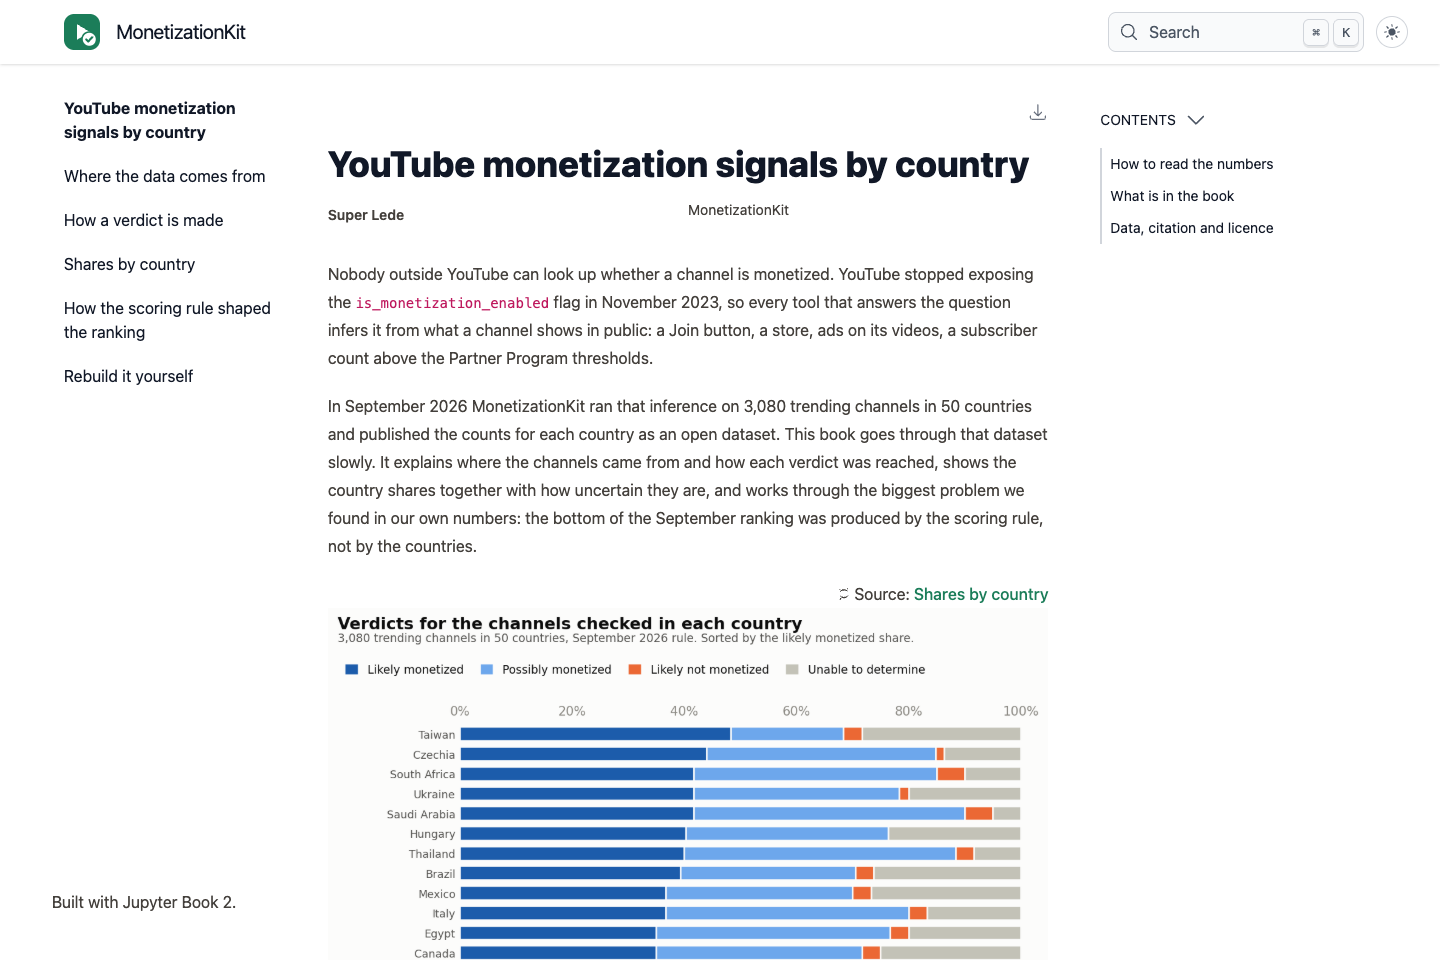
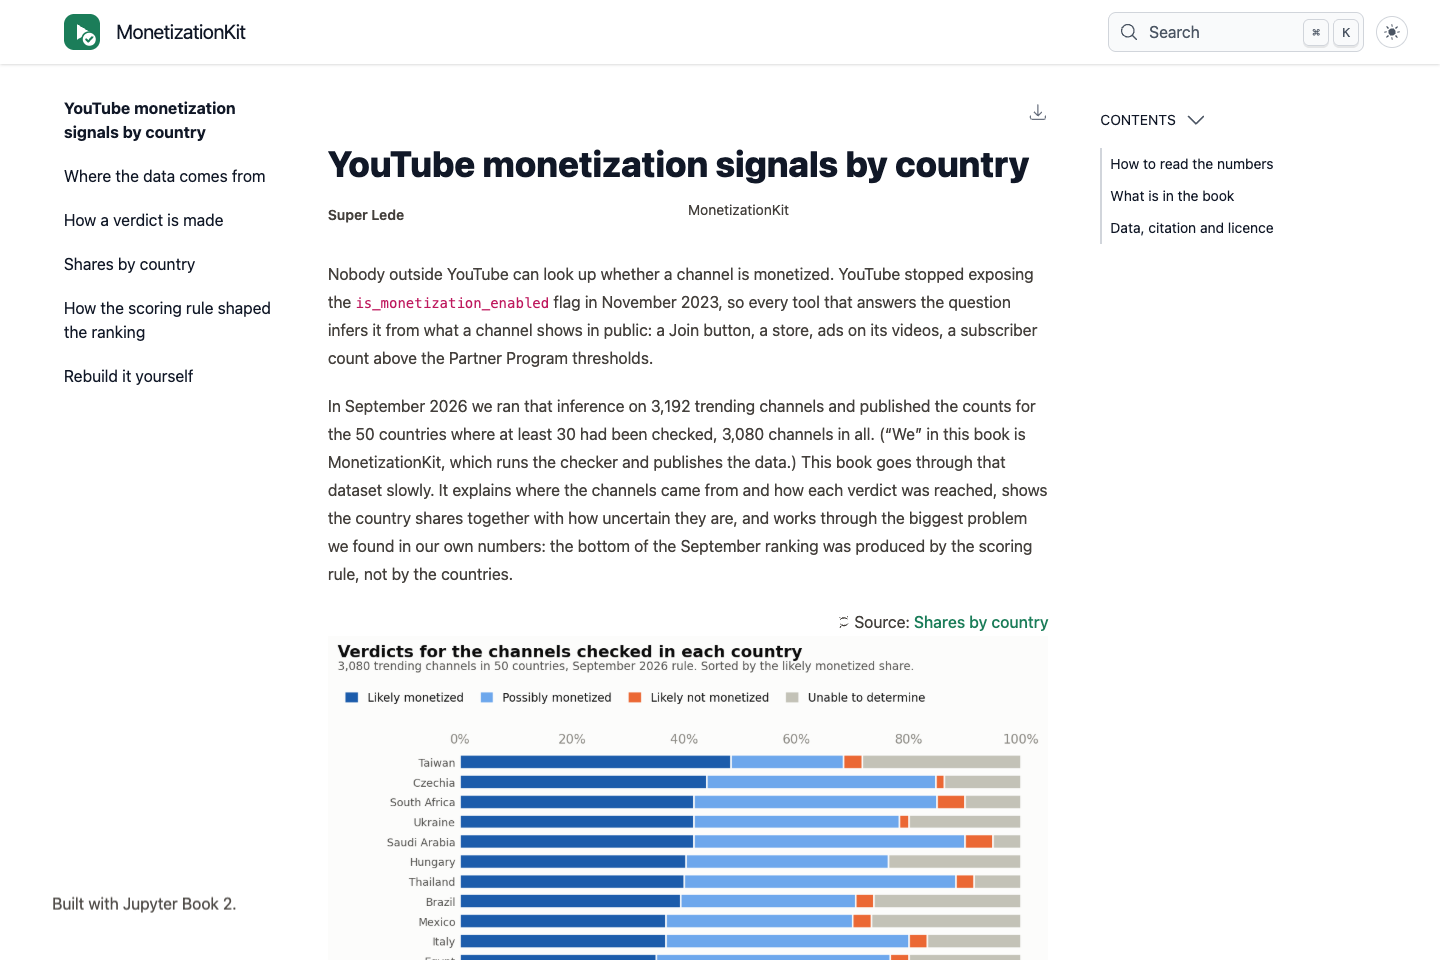
fix: address review findings in the book
Correct the claim about countries without memberships, use one voice,
clear the execution cache on publish, resolve the site path before cd,
and give pages a distinct title suffix.

Changed region(s): [[0.2188, 0.4062, 0.7188, 1.0], [0.0312, 0.9375, 0.1562, 0.9688]]

diff --git a/book/plotstyle.py b/book/plotstyle.py
@@ -5,8 +5,8 @@ checked for colour-vision deficiency (adjacent pairs) on the light surface below
 deliberately neutral because "unable to determine" is the absence of an answer.
 """
 
-import matplotlib
 import matplotlib.pyplot as plt
+from matplotlib.ticker import PercentFormatter
 
 SURFACE = "#fcfcfb"
 INK = "#0b0b0b"
@@ -32,7 +32,7 @@ VERDICT_LABELS = {
 MEMBERSHIPS = "#2a78d6"
 NO_MEMBERSHIPS = "#eb6834"
 
-PERCENT = matplotlib.ticker.PercentFormatter(1.0, decimals=0)
+PERCENT = PercentFormatter(1.0, decimals=0)
 
 plt.rcParams.update(
     {

diff --git a/book/method.md b/book/method.md
@@ -17,7 +17,7 @@ Every channel gets one of four verdicts: likely monetized, possibly monetized, l
 
 ## The September 2026 rule
 
-The September 2026 snapshot was scored with the rule MonetizationKit used in early September 2026. At that time the ad signal (S3) counted as present when at least two thirds of the sampled long videos had ads.
+The September 2026 snapshot was scored with the rule we used in early September 2026. At that time the ad signal (S3) counted as present when at least two thirds of the sampled long videos had ads.
 
 Likely monetized
 : 1,000+ subscribers, a Join button, and ads on recent long videos. All three.
@@ -46,26 +46,26 @@ Every stored check behind the live table was re-scored under the new rule, so th
 
 ## Limits
 
-### Trending channels, not typical ones
+### Trending channels are big channels
 
-The channels come from trending charts, and most of them have hundreds of thousands of subscribers. The `median_subscribers` column gives the figure for each country. A low share for a country does not mean creators there rarely get monetized. It means the large channels we checked showed fewer public signals.
+The channels come from trending charts. In 49 of the 50 countries the median channel we checked has more than 100,000 subscribers, and the `median_subscribers` column gives the figure for each country. So a low share for a country says the large channels we checked there showed fewer public signals. It says little about how often creators in that country get monetized.
 
-### A row is not a monetization rate
+### How to read a row
 
 Read a row as: of the channels we checked in this country, this many showed the signals. With about 60 channels per country, each share also carries a wide margin of error. [Shares by country](country-shares.ipynb) puts numbers on it.
 
 ### One in five could not be called
 
-A channel ends up as unable to determine when its pages could not be read, when YouTube blocked the ad sample, or when the signals pointed neither way. These channels are kept as their own group, not guessed into another one. They are not spread evenly across countries, which matters when two countries are compared.
+A channel ends up as unable to determine when its pages could not be read, when YouTube blocked the ad sample, or when the signals pointed neither way. These channels stay in their own group. They are not spread evenly across countries, which matters when two countries are compared.
 
 ### A bias in our own crawler
 
-The dataset README describes one bias found and fixed before publication. The crawler was being rate-limited, which inflated "unable to determine" for whichever countries happened to be crawled in a throttled hour. In an early crawl of about 900 channels on 5 September 2026, the United States read 37.1% unable. After the crawl was slowed and those channels rechecked, the figure in that early sample came down to 14.3%. In the full snapshot, the US row reads 16 unable out of 66. Failure rates are now watched over time, not only in aggregate.
+The dataset README describes one bias found and fixed before publication. The crawler was being rate-limited, which inflated "unable to determine" for whichever countries happened to be crawled in a throttled hour. In an early crawl of about 900 channels on 5 September 2026, the United States read 37.1% unable. After the crawl was slowed and those channels rechecked, the figure in that early sample came down to 14.3%. In the full snapshot the US row reads 16 unable out of 66, or 24.2%; we have not traced why it rose again as the sample grew. Failure rates are now tracked over time, so a throttled hour shows up as a spike.
 
 ### A signal can only appear where YouTube offers it
 
-Channel memberships, stores and the Partner Program itself are not available in every country. Russia, one of the 50 countries in the snapshot, was not on YouTube's list of countries where the Partner Program is open when MonetizationKit last checked that list on 1 October 2026. Where a feature does not exist, a missing signal is not evidence of anything. The last chapter shows how much this mattered for memberships.
+Channel memberships, stores and the Partner Program itself are not available in every country. Russia, one of the 50 countries in the snapshot, was not on YouTube's list of countries where the Partner Program is open when we last checked that list on 1 October 2026. Where a feature does not exist, a missing signal is not evidence of anything. The last chapter shows how much this mattered for memberships.
 
 ### Public pages only
 
-We see what a logged-out visitor sees: no earnings, no Studio data, nothing from the owner. A verdict is an inference from public signals, not a statement from YouTube.
+We see what a logged-out visitor sees: no earnings, no Studio data, nothing from the owner. YouTube has confirmed none of these verdicts.

diff --git a/book/index.md b/book/index.md
@@ -1,12 +1,12 @@
 ---
 title: YouTube monetization signals by country
 short_title: Introduction
-description: An open dataset of 3,080 trending YouTube channels in 50 countries, read closely. Where the channels came from, how each verdict is made, what the country shares look like with their uncertainty, and notebooks that recompute every number.
+description: An open dataset on 3,080 trending YouTube channels in 50 countries, read closely. Where the channels came from, how each verdict is made, what the country shares look like with their uncertainty, and notebooks that recompute every number.
 ---
 
 Nobody outside YouTube can look up whether a channel is monetized. YouTube stopped exposing the `is_monetization_enabled` flag in November 2023, so every tool that answers the question infers it from what a channel shows in public: a Join button, a store, ads on its videos, a subscriber count above the Partner Program thresholds.
 
-In September 2026 MonetizationKit ran that inference on 3,080 trending channels in 50 countries and published the counts for each country as an open dataset. This book goes through that dataset slowly. It explains where the channels came from and how each verdict was reached, shows the country shares together with how uncertain they are, and works through the biggest problem we found in our own numbers: the bottom of the September ranking was produced by the scoring rule, not by the countries.
+In September 2026 we ran that inference on 3,192 trending channels and published the counts for the 50 countries where at least 30 had been checked, 3,080 channels in all. ("We" in this book is MonetizationKit, which runs the checker and publishes the data.) This book goes through that dataset slowly. It explains where the channels came from and how each verdict was reached, shows the country shares together with how uncertain they are, and works through the biggest problem we found in our own numbers: the bottom of the September ranking was produced by the scoring rule, not by the countries.
 
 :::{figure} #fig-verdicts
 :label: fig-verdicts-intro
@@ -17,9 +17,9 @@ Verdicts for the channels checked in each country under the September 2026 rule,
 
 Three things to keep in mind before looking at any one country:
 
-- A row describes the channels we checked in that country, not every channel there. They are trending channels, and most have hundreds of thousands of subscribers.
+- A row describes the channels we checked in that country, not every channel there. They are trending channels: in all but one country, the median channel we checked has more than 100,000 subscribers.
 - "Likely monetized" is an inference from public signals. YouTube has not confirmed any of these verdicts.
-- One channel in five could not be called. Those channels stay in the table as "unable to determine" instead of being guessed into another group.
+- One channel in five could not be called. Those channels stay in the table as "unable to determine".
 
 ## What is in the book
 
@@ -29,7 +29,7 @@ Three things to keep in mind before looking at any one country:
 - [How the scoring rule shaped the ranking](scoring-rule.ipynb): why the eight countries at the bottom are the eight without channel memberships.
 - [Rebuild it yourself](reproduce.md): commands and package versions.
 
-The two notebook chapters show their code. Every figure and table, and every number about the countries, is computed from the CSV files when the book is built. Facts about how the sample was drawn come from the dataset's README.
+The two notebook chapters show their code. Every figure and table is computed from the CSV files when the book is built, and so are the numbers in the notebook chapters' text. Facts about how the sample was drawn come from the dataset's README.
 
 ## Data, citation and licence
 
@@ -37,6 +37,6 @@ The data is free to reuse under CC BY 4.0, commercially too, as long as you cred
 
 > MonetizationKit. YouTube monetization signals by country. September 2026. DOI 10.5281/zenodo.23401599
 
-DOI 10.5281/zenodo.23401598 always resolves to the latest archived version. The live table, recomputed every Monday, is on the [MonetizationKit data page](https://monetizationkit.com/data/youtube-monetized-channels-by-country/).
+DOI 10.5281/zenodo.23401598 always resolves to the latest archived version. The live table is on the [MonetizationKit data page](https://monetizationkit.com/data/youtube-monetized-channels-by-country/).
 
 The book, its notebooks and the data files are in the GitHub repository `supertj/youtube-monetization-by-country`, in the `book` folder. Questions and corrections go to hi@monetizationkit.com.

diff --git a/book/sampling.md b/book/sampling.md
@@ -5,11 +5,11 @@ description: How the channels in the September 2026 snapshot were chosen, whose 
 
 ## The sampling frame
 
-The channels were not drawn at random from all of YouTube. According to the dataset README, the frame was built like this: for all 111 regions the YouTube Data API exposes, we pulled the most popular videos (`videos.list?chart=mostPopular`) in 10 content categories and took the channels that own them. That gave 13,388 channels, 10,348 of which declare a country. Countries were then filled toward a target sample size instead of being sampled round-robin, so that a published row has enough channels to say something.
+The channels were not drawn at random from all of YouTube. We built the frame like this, as the dataset README records: for all 111 regions the YouTube Data API exposes, we pulled the most popular videos (`videos.list?chart=mostPopular`) in 10 content categories and took the channels that own them. That gave 13,388 channels, 10,348 of which declare a country. Countries were then filled toward a target sample size instead of being sampled round-robin, so that a published row has enough channels to say something.
 
 This frame decides what the dataset can describe. These are channels whose videos were trending in September 2026, so they lean large and currently active. [How a verdict is made](method.md) comes back to what that means when you read a country's share.
 
-MonetizationKit has since stopped using the YouTube Data API, so this sampling list is not kept and will not be repeated in the same form.
+We have since stopped using the YouTube Data API, so this sampling list is not kept and will not be repeated in the same form.
 
 Each channel counts once in the table, however many times it was checked.
 
@@ -45,10 +45,10 @@ All paths are relative to the root of the repository.
 | `unable_to_determine` | Not enough could be read to say either way |
 | `median_subscribers` | Median subscriber count of the channels checked in that country |
 
-The four verdict columns add up to `channels_checked` in every row, and [Shares by country](country-shares.ipynb) checks that before using the file. If you load it yourself, read `country_code` as text. Namibia's code is `NA`, which pandas and R both turn into a missing value by default.
+The four verdict columns add up to `channels_checked` in every row, and [Shares by country](country-shares.ipynb) checks that before using the file. If you load it yourself, read `country_code` as text. Namibia is not in this snapshot, but the live table could gain it, and its code `NA` is read as a missing value by pandas and R by default.
 
 ## Archived and live versions
 
 The snapshot is archived on Zenodo. DOI 10.5281/zenodo.23401599 points to this September 2026 version, and DOI 10.5281/zenodo.23401598 to whichever version is the latest.
 
-The [live table](https://monetizationkit.com/data/youtube-monetized-channels-by-country/) on MonetizationKit is recomputed every Monday and will not match the snapshot. Channels have been added since September, and the scoring rule changed between 29 September and 1 October 2026. [How the scoring rule shaped the ranking](scoring-rule.ipynb) compares the two.
+The [live table](https://monetizationkit.com/data/youtube-monetized-channels-by-country/) on MonetizationKit is recomputed every Monday, so it will not match the snapshot. Channels have been added since September, and the scoring rule changed between 29 September and 1 October 2026. [How the scoring rule shaped the ranking](scoring-rule.ipynb) compares the two.
